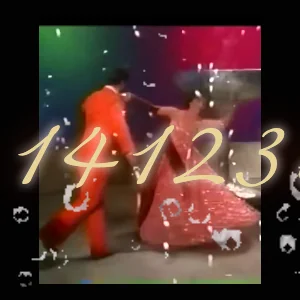
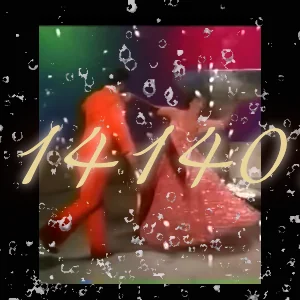
v

diff --git a/src/pages/2026/26-09/26-09-17/Clock.module.css b/src/pages/2026/26-09/26-09-17/Clock.module.css
@@ -38,7 +38,7 @@
   inset: 0;
   z-index: 1;
   background-repeat: repeat;
-  background-size: 50rem;
+  background-size: 20rem;
   opacity: 0.8;
   pointer-events: none;
 }
